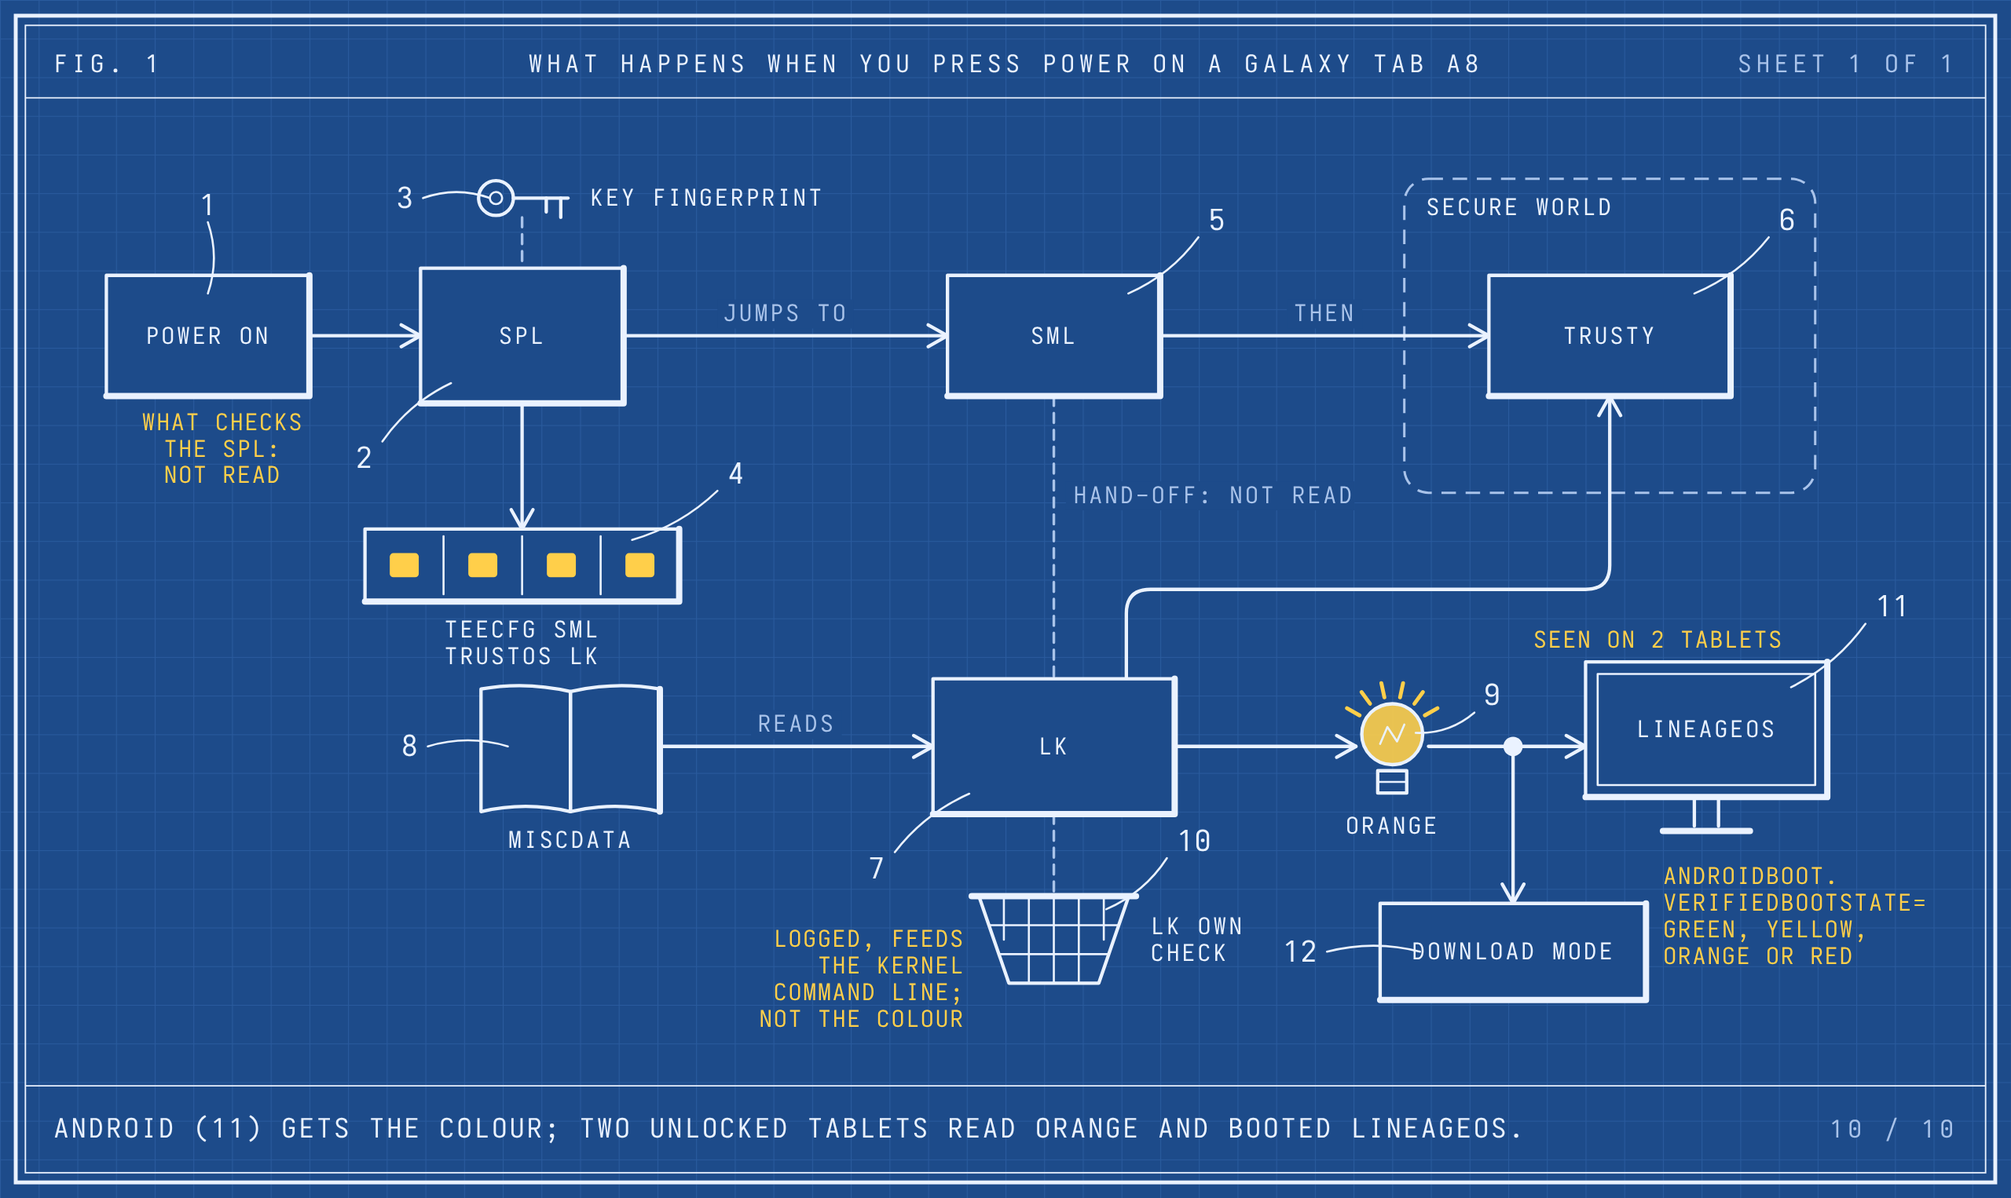
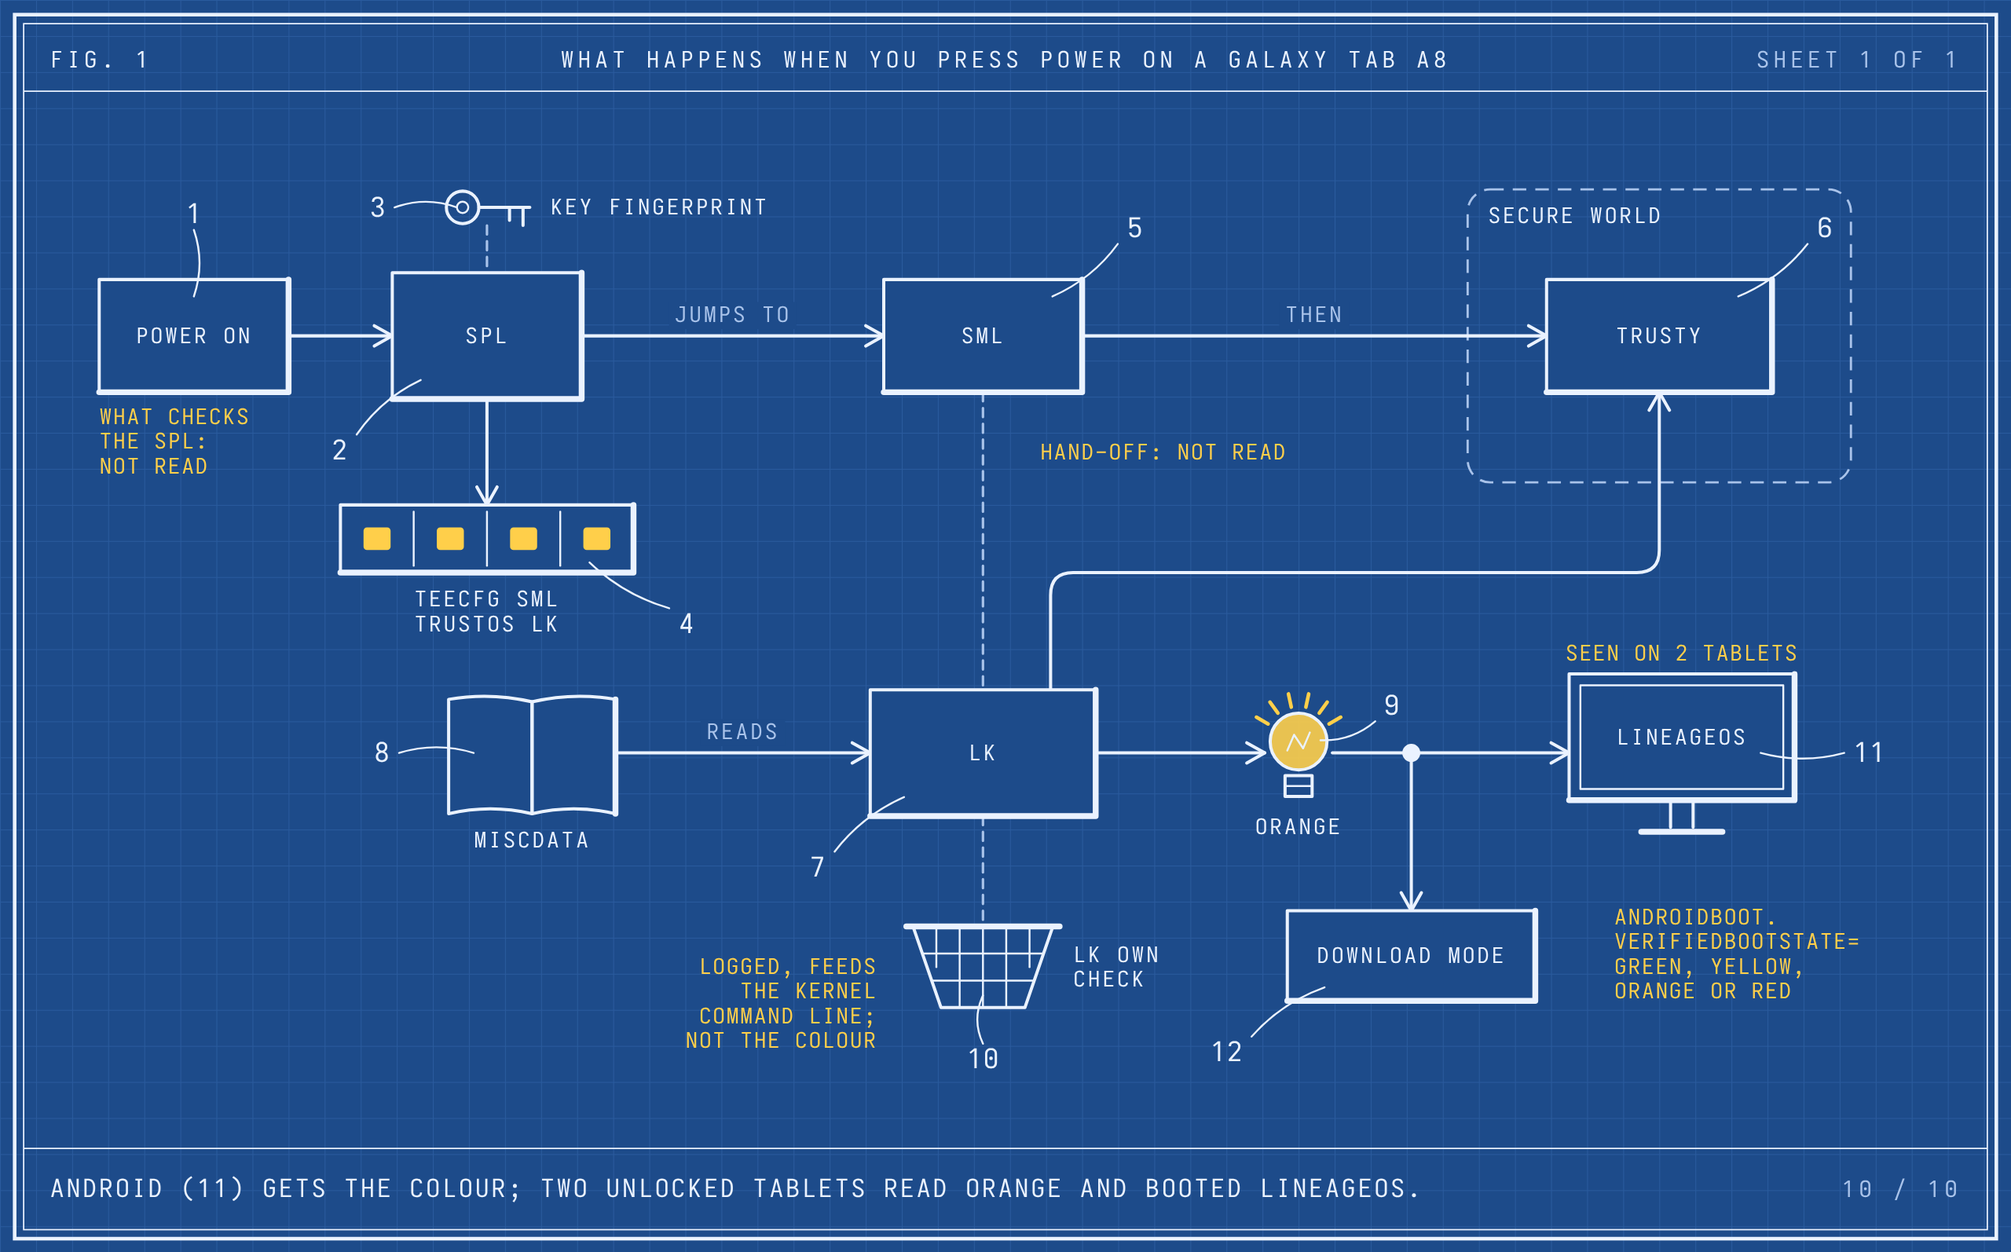
Blueprint sheet re-laid with more room around its text (her note: 'a bit tight and too close')
The canvas goes from 800 x 400 to 860 x 460, the leader for Download Mode no longer crosses its label, and the yellow notes sit clear of the parts beside them. Captions and facts unchanged. Linted clean and exported again in sandbox-vm, offline, reverted after; only the two images came back.

diff --git a/.blueprint/tab-a8-power-on/tab-a8-power-on.js b/.blueprint/tab-a8-power-on/tab-a8-power-on.js
@@ -11,24 +11,24 @@ BLUEPRINT.scene('tab-a8-power-on', {
   title: 'What happens when you press power on a Galaxy Tab A8',
   fig: 1,
   sheet: 'SHEET 1 OF 1',
-  size: [800, 400],
+  size: [860, 460],
   parts: [
     // top row, the relay: power -> SPL -> sml -> Trusty
-    { id: 'power', kind: 'box', at: [70, 95], size: [84, 50], label: 'POWER ON', n: 1, lead: 'n', name: 'Power on', note: 'you press the power key' },
-    { id: 'spl', kind: 'box', at: [200, 95], size: [84, 56], label: 'SPL', n: 2, lead: 'sw', name: 'SPL', note: 'the first small loader; what checks it is not in the files read' },
-    { id: 'key', kind: 'key', at: [200, 38], labelAt: 'e', label: 'KEY FINGERPRINT', n: 3, lead: 'w', name: 'Key fingerprint', note: 'a key fingerprint the SPL carries; each piece it loads is checked against it' },
-    { id: 'rack', kind: 'queue', at: [200, 190], size: [130, 30], slots: 4, count: 0, label: 'TEECFG SML\nTRUSTOS LK', n: 4, lead: 'ne', name: 'Next pieces', note: 'teecfg, sml, trustos and lk: the four pieces the SPL loads' },
-    { id: 'sml', kind: 'box', at: [420, 95], size: [88, 50], label: 'SML', n: 5, lead: 'ne', name: 'sml', note: 'the secure-world monitor; it starts with Trusty, the secure world' },
-    { id: 'zone', kind: 'zone', at: [650, 95], size: [170, 130], label: 'SECURE WORLD' },
-    { id: 'trusty', kind: 'box', at: [650, 95], size: [100, 50], label: 'TRUSTY', n: 6, lead: 'ne', name: 'Trusty', note: 'the secure world; lk asks it two things (commands 0x33 and 0x20)' },
+    { id: 'power', kind: 'box', at: [70, 105], size: [84, 50], label: 'POWER ON', n: 1, lead: 'n', name: 'Power on', note: 'you press the power key' },
+    { id: 'spl', kind: 'box', at: [200, 105], size: [84, 56], label: 'SPL', n: 2, lead: 'sw', name: 'SPL', note: 'the first small loader; what checks it is not in the files read' },
+    { id: 'key', kind: 'key', at: [200, 48], labelAt: 'e', label: 'KEY FINGERPRINT', n: 3, lead: 'w', name: 'Key fingerprint', note: 'a key fingerprint the SPL carries; each piece it loads is checked against it' },
+    { id: 'rack', kind: 'queue', at: [200, 195], size: [130, 30], slots: 4, count: 0, label: 'TEECFG SML\nTRUSTOS LK', n: 4, lead: 'se', name: 'Next pieces', note: 'teecfg, sml, trustos and lk: the four pieces the SPL loads' },
+    { id: 'sml', kind: 'box', at: [420, 105], size: [88, 50], label: 'SML', n: 5, lead: 'ne', name: 'sml', note: 'the secure-world monitor; it starts with Trusty, the secure world' },
+    { id: 'zone', kind: 'zone', at: [720, 105], size: [170, 130], label: 'SECURE WORLD' },
+    { id: 'trusty', kind: 'box', at: [720, 105], size: [100, 50], label: 'TRUSTY', n: 6, lead: 'ne', name: 'Trusty', note: 'the secure world; lk asks it two things (commands 0x33 and 0x20)' },
     // middle and bottom: lk and what it does
-    { id: 'lk', kind: 'box', at: [420, 265], size: [100, 56], label: 'LK', n: 7, lead: 'sw', name: 'lk', note: 'the main bootloader; how control gets to it was not read' },
-    { id: 'record', kind: 'book', at: [220, 265], label: 'MISCDATA', n: 8, lead: 'w', name: 'Unlock record', note: 'a small record in the miscdata partition' },
-    { id: 'lamp', kind: 'lamp', at: [560, 265], on: 0, label: 'COLOUR', n: 9, lead: [34, -14], name: 'Boot state', note: 'green, yellow, orange or red; "green" and "yellow" are the names in the bootloader\'s own log lines' },
-    { id: 'sieve', kind: 'sieve', at: [420, 345], labelAt: 'e', label: 'LK OWN\nCHECK', n: 10, lead: 'ne', name: 'lk\'s own check', note: 'always runs on the same signatures; the answer is logged and goes to the kernel command line, but does not set the colour' },
-    { id: 'junc', kind: 'dot', at: [610, 265] },
-    { id: 'android', kind: 'screen', at: [690, 265], size: [100, 70], label: 'ANDROID', n: 11, lead: 'ne', name: 'Android', note: 'gets the colour as androidboot.verifiedbootstate=green, yellow, orange or red' },
-    { id: 'dl', kind: 'box', at: [610, 350], size: [110, 40], label: 'DOWNLOAD MODE', n: 12, lead: 'w', name: 'Download Mode', note: 'where red waits to be flashed; in the code as read it stays there' }
+    { id: 'lk', kind: 'box', at: [420, 290], size: [100, 56], label: 'LK', n: 7, lead: 'sw', name: 'lk', note: 'the main bootloader; how control gets to it was not read' },
+    { id: 'record', kind: 'book', at: [220, 290], label: 'MISCDATA', n: 8, lead: 'w', name: 'Unlock record', note: 'a small record in the miscdata partition' },
+    { id: 'lamp', kind: 'lamp', at: [560, 290], on: 0, label: 'COLOUR', n: 9, lead: [34, -14], name: 'Boot state', note: 'green, yellow, orange or red; "green" and "yellow" are the names in the bootloader\'s own log lines' },
+    { id: 'sieve', kind: 'sieve', at: [420, 385], labelAt: 'e', label: 'LK OWN\nCHECK', n: 10, lead: 's', leadLen: 16, name: 'lk\'s own check', note: 'always runs on the same signatures; the answer is logged and goes to the kernel command line, but does not set the colour' },
+    { id: 'junc', kind: 'dot', at: [610, 290] },
+    { id: 'android', kind: 'screen', at: [730, 290], size: [100, 70], label: 'ANDROID', n: 11, lead: 'e', name: 'Android', note: 'gets the colour as androidboot.verifiedbootstate=green, yellow, orange or red' },
+    { id: 'dl', kind: 'box', at: [610, 380], size: [110, 40], label: 'DOWNLOAD MODE', n: 12, lead: 'sw', name: 'Download Mode', note: 'where red waits to be flashed; in the code as read it stays there' }
   ],
   lines: [
     { id: 'go', from: 'power.e', to: 'spl.w', arrow: true },
@@ -36,9 +36,9 @@ BLUEPRINT.scene('tab-a8-power-on', {
     { id: 'load', from: 'spl.s', to: 'rack.n', arrow: true },
     { id: 'jump', from: 'spl.e', to: 'sml.w', label: 'JUMPS TO', arrow: true },
     { id: 'start', from: 'sml.e', to: 'trusty.w', label: 'THEN', arrow: true },
-    { id: 'hop', from: 'sml.s', to: 'lk.n', kind: 'wire', label: 'HAND-OFF: NOT READ', labelPos: 0.35 },
+    { id: 'hop', from: 'sml.s', to: 'lk.n', kind: 'wire' },
     { id: 'rd', from: 'record.e', to: 'lk.w', label: 'READS', arrow: true },
-    { id: 'ask', from: 'lk.n+30', to: 'trusty.s', via: [[450, 200], [650, 200]], arrow: true },
+    { id: 'ask', from: 'lk.n+30', to: 'trusty.s', via: [[450, 210], [720, 210]], arrow: true },
     { id: 'colour', from: 'lk.e', to: 'lamp.w', arrow: true },
     { id: 'wk', from: 'lk.s', to: 'sieve.n', kind: 'wire' },
     { id: 'out1', from: 'lamp.e', to: 'junc' },
@@ -49,7 +49,7 @@ BLUEPRINT.scene('tab-a8-power-on', {
     {
       say: 'You press power (1), and the first small loader, the SPL (2), starts.',
       draw: ['power', 'go', 'spl'],
-      note: { at: 'power.s', text: 'WHAT CHECKS\nTHE SPL:\nNOT READ', keep: true }
+      note: { at: 'power.s', dx: -42, anchor: 'start', text: 'WHAT CHECKS\nTHE SPL:\nNOT READ', keep: true }
     },
     {
       say: 'It carries a key fingerprint (3), loads four pieces (4) and checks each one against it.',
@@ -80,7 +80,8 @@ BLUEPRINT.scene('tab-a8-power-on', {
       say: 'Then lk (7), the main bootloader, runs, but it must learn if the owner unlocked the tablet.',
       view: 'all',
       draw: ['hop', 'lk'],
-      glow: ['lk']
+      glow: ['lk'],
+      note: { at: [500, 160], dx: 0, dy: 0, anchor: 'middle', text: 'HAND-OFF: NOT READ', keep: true }
     },
     {
       say: 'So lk reads a small record (8) and asks the secure world if it is genuine: locked or unlocked.',
@@ -90,7 +91,7 @@ BLUEPRINT.scene('tab-a8-power-on', {
         { on: 'ask', item: 'chip', text: '0x33', dur: 1.6, arrive: { glow: ['trusty'] } },
         { on: 'ask', back: true, item: 'chip', text: 'ANSWER', dur: 1.6 }
       ],
-      note: { at: [478, 214], dx: 0, dy: 0, anchor: 'start', text: 'COMMAND 0x33:\nGENUINE RECORD?\nLOCKED/UNLOCKED' }
+      note: { at: [486, 230], dx: 0, dy: 0, anchor: 'start', text: 'COMMAND 0x33:\nGENUINE RECORD?\nLOCKED/UNLOCKED' }
     },
     {
       say: 'But a locked tablet must not run a tampered system, so Trusty (6) checks its boot image.',
@@ -101,14 +102,14 @@ BLUEPRINT.scene('tab-a8-power-on', {
         { on: 'colour', item: 'chip', text: 'GREEN', color: 'ok', dur: 0.9, arrive: { set: { lamp: { on: 1, text: 'GREEN' } }, glow: ['lamp'] } }
       ],
       note: [
-        { at: [550, 200], dx: 0, dy: -8, anchor: 'middle', text: 'COMMAND 0x20' },
-        { at: [478, 214], dx: 0, dy: 0, anchor: 'start', text: 'GREEN: SAMSUNG KEY\nYELLOW: OTHER KEY\nRED: ANYTHING ELSE' },
-        { at: 'sieve.w', text: 'LOGGED, FEEDS\nTHE KERNEL\nCOMMAND LINE;\nNOT THE COLOUR', keep: true }
+        { at: [550, 210], dx: 0, dy: -8, anchor: 'middle', text: 'COMMAND 0x20' },
+        { at: [486, 230], dx: 0, dy: 0, anchor: 'start', text: 'GREEN: SAMSUNG KEY\nYELLOW: OTHER KEY\nRED: ANYTHING ELSE' },
+        { at: 'sieve.w', dx: -16, text: 'LOGGED, FEEDS\nTHE KERNEL\nCOMMAND LINE;\nNOT THE COLOUR', keep: true }
       ]
     },
     {
       say: 'But an unlocked tablet may run something else, so lk skips the check and the colour (9) is orange.',
-      view: [270, 150, 530, 250],
+      view: [270, 190, 590, 270],
       draw: ['out1', 'junc', 'out2', 'android'],
       set: { lamp: { on: 0, text: 'COLOUR' } },
       run: [
@@ -117,8 +118,8 @@ BLUEPRINT.scene('tab-a8-power-on', {
         { on: 'out2', item: 'ball', dur: 0.6, arrive: { glow: ['android'] } }
       ],
       note: [
-        { at: [478, 214], dx: 0, dy: 0, anchor: 'start', text: 'NO 0x20 CHECK;\nORANGE WAITS A\nMOMENT, THEN BOOTS' },
-        { at: [672, 322], dx: 0, dy: 0, anchor: 'start', text: 'GREEN OR YELLOW:\nLOGS A LINE,\nTHEN BOOTS' }
+        { at: [486, 230], dx: 0, dy: 0, anchor: 'start', text: 'NO 0x20 CHECK;\nORANGE WAITS A\nMOMENT, THEN BOOTS' },
+        { at: [700, 366], dx: 0, dy: 0, anchor: 'start', text: 'GREEN OR YELLOW:\nLOGS A LINE,\nTHEN BOOTS' }
       ]
     },
     {
@@ -130,7 +131,7 @@ BLUEPRINT.scene('tab-a8-power-on', {
         { on: 'out1', item: 'ball', color: 'fail', dur: 0.6 },
         { on: 'jdl', item: 'ball', color: 'fail', dur: 0.9, arrive: { glow: ['dl'] } }
       ],
-      note: { at: 'dl.e', text: 'WAITS TO BE\nFLASHED; STAYS\nTHERE, AS READ' }
+      note: { at: 'dl.e', dx: 16, text: 'WAITS TO BE\nFLASHED; STAYS\nTHERE, AS READ' }
     },
     {
       say: 'Android (11) gets the colour; two unlocked tablets read orange and booted LineageOS.',
@@ -141,8 +142,8 @@ BLUEPRINT.scene('tab-a8-power-on', {
         { on: 'out2', item: 'ball', dur: 0.6, arrive: { set: { android: { text: 'LINEAGEOS' } } } }
       ],
       note: [
-        { at: 'android.n', dx: -20, anchor: 'middle', text: 'SEEN ON 2 TABLETS' },
-        { at: [672, 322], dx: 0, dy: 0, anchor: 'start', text: 'ANDROIDBOOT.\nVERIFIEDBOOTSTATE=\nGREEN, YELLOW,\nORANGE OR RED' }
+        { at: 'android.n', dx: 0, anchor: 'middle', text: 'SEEN ON 2 TABLETS' },
+        { at: [700, 366], dx: 0, dy: 0, anchor: 'start', text: 'ANDROIDBOOT.\nVERIFIEDBOOTSTATE=\nGREEN, YELLOW,\nORANGE OR RED' }
       ],
       hold: 2.6
     }

diff --git a/.blueprint/tab-a8-power-on/NOTES.md b/.blueprint/tab-a8-power-on/NOTES.md
@@ -1,6 +1,6 @@
 # tab-a8-power-on: blueprint sheet source
 
-Scene file: `tab-a8-power-on.js` (scene id `tab-a8-power-on`, 800x400, 10 steps, 12 numbered parts plus a zone and a junction dot, 13 lines).
+Scene file: `tab-a8-power-on.js` (scene id `tab-a8-power-on`, 860x460 (wider and taller than the 800x400 the craft guide names for complex scenes, to give the labels air; `size` accepts any width and height), 10 steps, 12 numbered parts plus a zone and a junction dot, 13 lines).
 Facts come from `Tab-A8-teardown.md` ("the plain version", "what lk does about verified boot"). Nothing here has been linted, built or looked at: the blueprint project was only read, never run. While writing I used cat, sed, grep, find, ls, wc, awk, cut and head on the blueprint folder (read-only), `git check-ignore` once in the firmware repo (read-only, it matched nothing for `.blueprint`), and `python3` on scratch text files in `/tmp` (`caps*.txt`) only to count caption characters, plus a `python3` string edit of my own scene file. No blueprint file was executed or imported.
 
 ## Blueprint files read to learn the format
@@ -35,7 +35,7 @@ If Chromium comes from the distro, prefix with `BLUEPRINT_CHROMIUM=/usr/bin/chro
 
 - **Never linted or looked at.** The workflow says lint until `clean` and read a contact sheet. I could do neither. I hand-checked every part box, numeral, label, note and line segment against the lint's rules and the runtime's geometry, but expect the real lint to find something (most likely: notes or numerals touching, tight margins). Fix those in the VM.
 - **Part count.** Complex scenes allow 6-14 parts. I use 14 ids counting the zone and the junction dot. At the limit.
-- **Edge margin.** Craft says keep parts 24 units from the edges. The zone's top is at y 30 and the key part's top is at y 30. Three notes (the "keep" sieve note, the Download Mode note, the Android state-name note) reach about y 384 or x 784, inside the sheet but closer than 24 to the edge.
+- **Edge margin.** After the loosening pass every part is at least 28 units from each edge of the 860x460 drawing area, and the notes and numerals are all inside it. (An earlier 800x400 layout had the zone and the key at y 30 and some notes near the bottom edge.)
 - **"Problem ends the caption, next starts with So".** Steps 6-9 do not follow it cleanly. Step 5 ends on the problem ("it must learn if the owner unlocked the tablet") and step 6 starts "So". Steps 7, 8 and 9 each open with "But ... so ..." inside one caption instead, because the brief's chain has the problem and its fix as one link and there are only 10 steps. All captions are one sentence under 100 characters (longest 98).
 - **Every part named in a caption by number.** Not met: the sieve (10) and the junction are not in any caption, the colour (9) is only in step 8's caption, the record's answer and the key are explained by notes. They are all in the key list via `name` and `note`.
 - **Real numbers.** The facts give no measured units, so there are no `~120 MS`-style notes. The numbers on the sheet are the command codes 0x33 and 0x20 and counts (four pieces, two tablets).
@@ -43,7 +43,7 @@ If Chromium comes from the distro, prefix with `BLUEPRINT_CHROMIUM=/usr/bin/chro
 - **Step 7 shows a green pass as the example.** The brief says a pass with Samsung's key is green, but not that it was seen on the tablets. The green chip is an illustration of the locked path, and the note beside it states the three colour rules. Only step 10 states what was actually seen (two tablets, unlocked, orange, LineageOS).
 - **Lamp colour.** The kit's lamp only lights (yellow ink). It cannot be green, orange or red. The colour is shown by replacing its label text (`GREEN`, `ORANGE`, `RED`), and step 9 adds the red failure badge. Step 7 does not use a green badge because it would sit on the colour note.
 - **Last frame as a summary.** Only notes marked `keep` survive on the finished still, and most of the rules are in step-bound notes. The finished sheet shows the parts, the lamp reading ORANGE, Android reading LINEAGEOS, the VERIFIEDBOOTSTATE string, SEEN ON 2 TABLETS, the NOT READ marks and lk's own-check note, but not the 0x33 / 0x20 command names, the green/yellow/red rule, or the red path's note. Download Mode (12) is on the sheet but not marked as the red path. Check this in the VM and consider `keep: true` on a note or two.
-- **Leaders the lint cannot see.** Hand-checked only: the lamp (9) has its numeral on a custom `lead: [34, -14]` so its leader clears the three-line notes, and the 'SEEN ON 2 TABLETS' note is nudged left so Android's leader does not cross it.
+- **Leaders the lint cannot see.** Hand-checked only: the lamp (9) has its numeral on a custom `lead: [34, -14]` so its leader clears the three-line notes; Android (11) and Download Mode (12) lead east and south-west so their leaders do not cross a label or a note; the sieve (10) leads south so its numeral is clear of its label.
 - **Camera.** Moves in step 4 (zoom to the SPL, sml and the secure-world zone), back to `all` in step 5, zoom to the lower right in step 8 (held through 9), `all` again in step 10. Not tried against the real runtime.
 
 ## Where I chose a kit part to stand for something
@@ -57,7 +57,7 @@ If Chromium comes from the distro, prefix with `BLUEPRINT_CHROMIUM=/usr/bin/chro
 | The secure world | `zone` labelled SECURE WORLD, holding `box` TRUSTY | the catalogue uses zones for boundaries. sml is drawn outside the zone on purpose: the facts say the SPL jumps to sml, the secure-world monitor, which starts with Trusty. They do not say sml sits inside Trusty. The line from sml to Trusty is labelled THEN, not STARTS, to avoid saying more than that |
 | The unlock record in miscdata | `book` labelled MISCDATA | a ledger/record part; the partition name is the label |
 | The two asks (0x33, 0x20) | one `track` line `ask` from lk to Trusty, used twice, with notes naming the command | one channel drawn once; the command is in the note |
-| Not-read hand-off from sml to lk | `wire` (dashed) labelled HAND-OFF: NOT READ | dashed means "talks to / control signal"; the label says it was not read. No chip travels on it |
+| Not-read hand-off from sml to lk | `wire` (dashed) with a kept yellow note HAND-OFF: NOT READ beside it | dashed means "talks to / control signal"; the note says it was not read and sits 24 units from the line so it does not hug it. No chip travels on it |
 | What checks the SPL | a kept note under POWER ON: "WHAT CHECKS THE SPL: NOT READ" | no part drawn, because nothing was read |
 | The boot state colour | `lamp` | the status part; shows colour only through its label text (see above) |
 | lk's own check | `sieve` on a `wire` from lk | a validation/filter part; the note says it is logged, feeds the kernel command line, and does not set the colour |
@@ -77,6 +77,8 @@ If Chromium comes from the distro, prefix with `BLUEPRINT_CHROMIUM=/usr/bin/chro
 The sheet was linted and exported inside an offline virtual machine, never on the host: blueprint at commit `f34e950`, Node 24, the guest's own Chromium 157 through `BLUEPRINT_CHROMIUM`, and `playwright-core` 1.64.1 in place of the pinned `playwright` 1.56.1.
 
 - `check.mjs`: `clean` (10 steps, 54.8 s, 14 parts, 13 lines), exit 0.
-- `export.mjs --format png,gif --no-font`: exit 0. The GIF is 1280 x 763, 323 frames, 4.25 MB; the PNG is 2560 x 1526.
+- `export.mjs --format png,gif --no-font`: exit 0. The GIF is 1280 x 797 and 4.58 MB; the PNG is 2560 x 1594.
+
+That is the second run. The first, on the 800 x 400 layout, also linted clean; the sheet was then re-laid at 860 x 460 because its text sat too close together, and run again the same way.
 
 Only those two image files left the machine; they are `figures/blueprint-power-on.gif` and `figures/blueprint-power-on.png`. The standalone HTML page was not built or kept.
